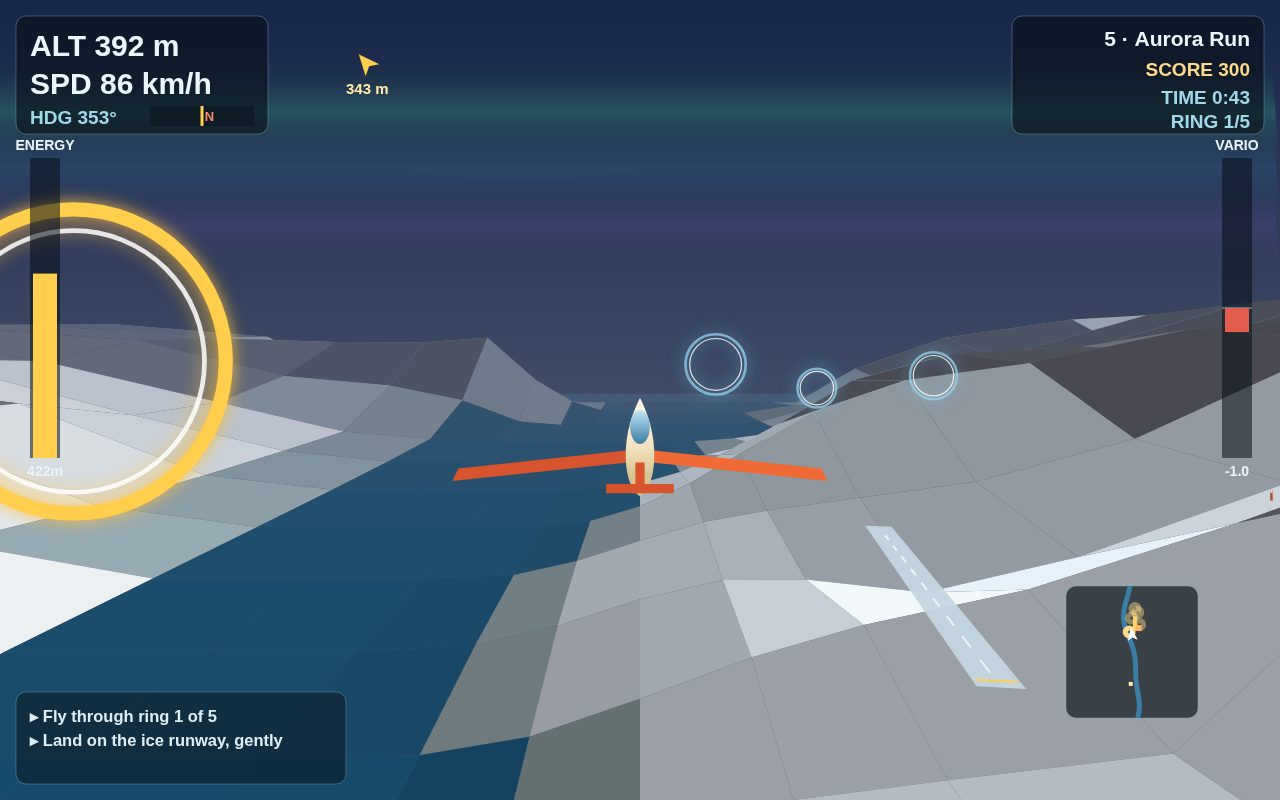
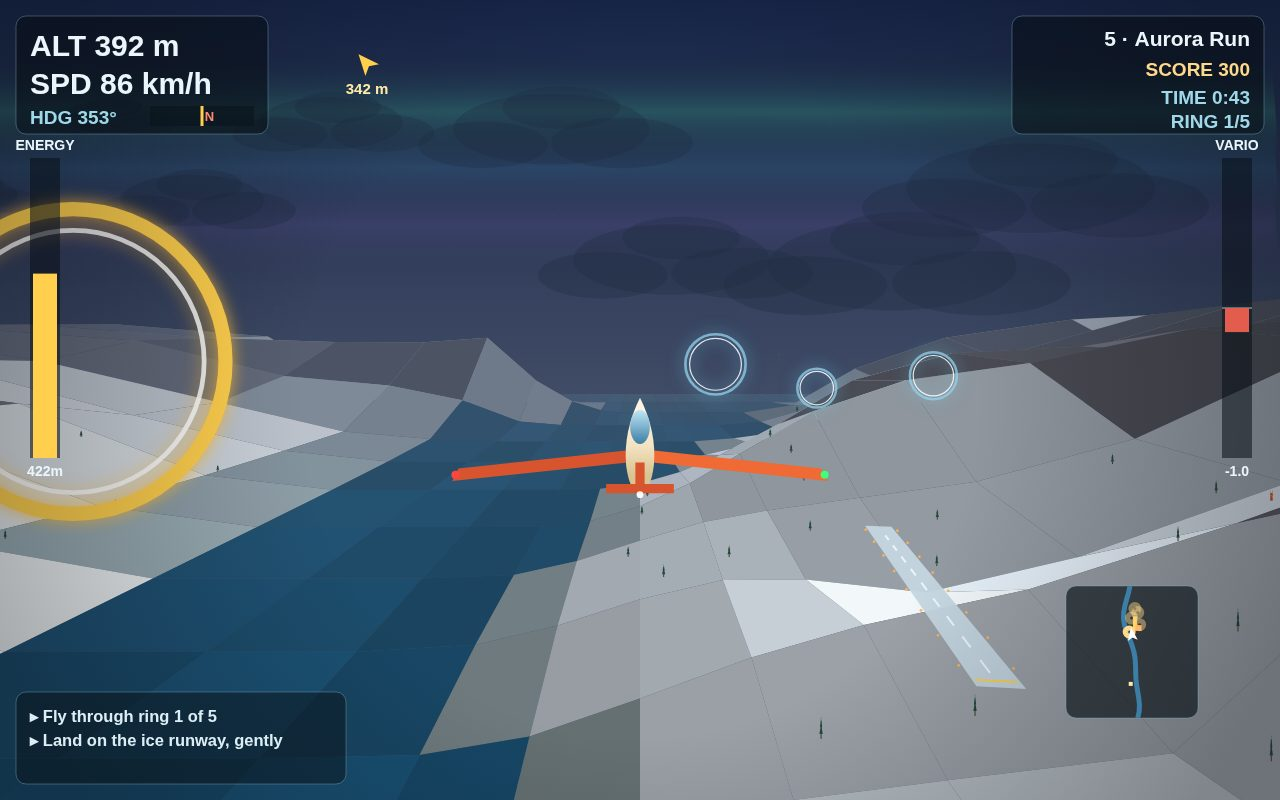
Graphics pass: sun, stars, clouds, pine forest, water shimmer, runway lights, lit windows, glider shadow, nav lights, vignette

diff --git a/game/src/renderWorld.js b/game/src/renderWorld.js
@@ -84,14 +84,79 @@ export function createRenderer(canvas) {
     };
   }
 
-  function drawSky(palette, time) {
+  function drawSky(palette, time, heading = 0) {
     const grad = ctx.createLinearGradient(0, 0, 0, H);
     grad.addColorStop(0, rgb(palette.sky));
     grad.addColorStop(0.55, rgb(palette.horizon));
     grad.addColorStop(1, rgb(palette.fog));
     ctx.fillStyle = grad;
     ctx.fillRect(0, 0, W, H);
+    drawSun(palette, heading);
+    if (palette.aurora > 0.05 || palette.sun < 0.3) drawStars(palette, time);
     if (palette.aurora > 0) drawAurora(palette.aurora, time);
+    drawClouds(palette, time, heading);
+  }
+
+  // The low arctic sun: a disc with a halo that slides toward the horizon
+  // and warms as the day fades. Its screen position follows the heading, so
+  // turning the glider visibly turns the light.
+  function drawSun(palette, heading) {
+    if (palette.sun < 0.12) return;
+    // Sun sits in the south-west; heading 0 (north) puts it left-of-frame.
+    const sunBearing = 3.84; // radians, fixed in the world
+    let rel = sunBearing - heading;
+    while (rel > Math.PI) rel -= Math.PI * 2;
+    while (rel < -Math.PI) rel += Math.PI * 2;
+    if (Math.abs(rel) > 1.5) return;
+    const sx = W / 2 + rel * W * 0.42;
+    const sy = H * (0.52 - palette.sun * 0.3);
+    const r = 26 + palette.sun * 10;
+    const halo = ctx.createRadialGradient(sx, sy, r * 0.4, sx, sy, r * 5.2);
+    halo.addColorStop(0, `rgba(255,214,140,${0.5 * palette.sun})`);
+    halo.addColorStop(1, "rgba(255,190,110,0)");
+    ctx.fillStyle = halo;
+    ctx.fillRect(sx - r * 5.2, sy - r * 5.2, r * 10.4, r * 10.4);
+    ctx.fillStyle = `rgba(255,232,170,${0.55 + palette.sun * 0.4})`;
+    ctx.beginPath();
+    ctx.arc(sx, sy, r, 0, Math.PI * 2);
+    ctx.fill();
+  }
+
+  function drawStars(palette, time) {
+    const alpha = clamp(0.25 - palette.sun, 0, 0.85);
+    if (alpha <= 0.02) return;
+    ctx.save();
+    for (let i = 0; i < 110; i++) {
+      // Deterministic star field from the index alone.
+      const sx = ((i * 613) % 997) / 997 * W;
+      const sy = ((i * 389) % 613) / 613 * H * 0.5;
+      const tw = 0.6 + 0.4 * Math.sin(time * (1 + (i % 5) * 0.3) + i);
+      ctx.fillStyle = `rgba(230,240,255,${alpha * tw})`;
+      ctx.fillRect(sx, sy, i % 7 === 0 ? 2.2 : 1.3, i % 7 === 0 ? 2.2 : 1.3);
+    }
+    ctx.restore();
+  }
+
+  // Slow cloud puffs at screen parallax: they drift against the heading so
+  // the world feels deep even before the terrain fills the frame.
+  function drawClouds(palette, time, heading) {
+    ctx.save();
+    const dark = palette.sun < 0.4;
+    for (let i = 0; i < 9; i++) {
+      const baseX = ((i * 331) % 1200) / 1200;
+      const drift = ((time * 0.004 * (1 + (i % 3) * 0.4)) + heading * -0.06) % 1.3;
+      let cx = (baseX + drift) * W - W * 0.15;
+      if (cx > W + 160) cx -= W + 320;
+      const cy = H * (0.08 + ((i * 197) % 300) / 300 * 0.26);
+      const s = 46 + (i % 4) * 26;
+      ctx.fillStyle = dark ? `rgba(30,42,64,0.3)` : `rgba(255,252,246,${0.1 + palette.sun * 0.1})`;
+      for (const [ox, oy, os] of [[0, 0, 1], [-0.7, 0.16, 0.66], [0.72, 0.14, 0.72], [0.1, -0.22, 0.6]]) {
+        ctx.beginPath();
+        ctx.ellipse(cx + ox * s, cy + oy * s, s * os, s * os * 0.36, 0, 0, Math.PI * 2);
+        ctx.fill();
+      }
+    }
+    ctx.restore();
   }
 
   function drawAurora(strength, time) {
@@ -118,7 +183,7 @@ export function createRenderer(canvas) {
     ctx.restore();
   }
 
-  function drawTerrain(cam, project, palette) {
+  function drawTerrain(cam, project, palette, time = 0) {
     const fwdFlatX = cam.fwdX;
     const fwdFlatZ = cam.fwdZ;
     const len = Math.hypot(fwdFlatX, fwdFlatZ) || 1;
@@ -152,7 +217,11 @@ export function createRenderer(canvas) {
         const surface = surfaceAt(cx, cz, ch);
         let col = SURFACE_COLOURS[surface];
         // Simple hill shading from the height difference across the quad.
-        const shade = clamp(0.88 + (a.wy - c.wy) * 0.004, 0.68, 1.12);
+        let shade = clamp(0.88 + (a.wy - c.wy) * 0.004, 0.68, 1.12);
+        // Open water catches the light: a slow travelling shimmer.
+        if (surface === "water") {
+          shade *= 1 + 0.09 * Math.sin(time * 1.2 + (cx * 0.011 + cz * 0.017));
+        }
         const fogT = clamp((a.p.depth - 500) / 5200, 0, 0.88);
         ctx.fillStyle = rgb(blendCol(shadeCol(col, shade), palette.fog, fogT));
         ctx.beginPath();
@@ -160,6 +229,68 @@ export function createRenderer(canvas) {
         ctx.lineTo(b.p.x, b.p.y);
         ctx.lineTo(c.p.x, c.p.y);
         ctx.lineTo(d.p.x, d.p.y);
+        ctx.closePath();
+        ctx.fill();
+      }
+    }
+  }
+
+  // Pine forest: deterministic trees scattered by a cell hash, drawn only
+  // near the camera where they read as individual trees, not texture.
+  function treeHash(ix, iz) {
+    let n = ix * 2246822519 + iz * 3266489917;
+    n = (n ^ (n >> 15)) * 2654435761;
+    return (((n ^ (n >> 13)) >>> 0) % 1000) / 1000;
+  }
+
+  function drawTrees(project, cam) {
+    const cell = 150;
+    const fwdLen = Math.hypot(cam.fwdX, cam.fwdZ) || 1;
+    const fx = cam.fwdX / fwdLen;
+    const fz = cam.fwdZ / fwdLen;
+    const rx = -fz;
+    const rz = fx;
+    for (let df = 120; df < 2100; df += cell) {
+      for (let dl = -1500; dl <= 1500; dl += cell) {
+        const wx = cam.x + fx * df + rx * dl;
+        const wz = cam.z + fz * df + rz * dl;
+        const ix = Math.round(wx / cell);
+        const iz = Math.round(wz / cell);
+        if (treeHash(ix, iz) > 0.34) continue;
+        const jx = wx + (treeHash(ix + 40, iz) - 0.5) * 80;
+        const jz = wz + (treeHash(ix, iz + 40) - 0.5) * 80;
+        const gy = terrainHeight(jx, jz);
+        if (gy < 18 || gy > 215) continue;
+        if (surfaceAt(jx, jz, gy) !== "snow" && surfaceAt(jx, jz, gy) !== "shore") continue;
+        const base = project(jx, gy, jz);
+        const top = project(jx, gy + 17, jz);
+        if (!base || !top || base.depth > 2100) continue;
+        const s = base.scale;
+        const wHalf = Math.max(1.6, 5.2 * s * 0.14);
+        const trunkH = (base.y - top.y) * 0.24;
+        ctx.strokeStyle = "#4a3826";
+        ctx.lineWidth = Math.max(1, s * 0.16);
+        ctx.beginPath();
+        ctx.moveTo(base.x, base.y);
+        ctx.lineTo(base.x, base.y - trunkH);
+        ctx.stroke();
+        ctx.fillStyle = "#22483a";
+        for (let tier = 0; tier < 2; tier++) {
+          const ty = base.y - trunkH - (base.y - top.y - trunkH) * (tier * 0.42);
+          const tw = wHalf * (1 - tier * 0.34);
+          ctx.beginPath();
+          ctx.moveTo(base.x - tw, ty);
+          ctx.lineTo(base.x, ty - (base.y - top.y) * 0.52);
+          ctx.lineTo(base.x + tw, ty);
+          ctx.closePath();
+          ctx.fill();
+        }
+        // A cap of snow on the crown.
+        ctx.fillStyle = "rgba(240,246,250,0.85)";
+        ctx.beginPath();
+        ctx.moveTo(base.x - wHalf * 0.2, top.y + (base.y - top.y) * 0.1);
+        ctx.lineTo(base.x, top.y);
+        ctx.lineTo(base.x + wHalf * 0.2, top.y + (base.y - top.y) * 0.1);
         ctx.closePath();
         ctx.fill();
       }
@@ -194,6 +325,18 @@ export function createRenderer(canvas) {
       ctx.lineTo(p2.x, p2.y);
       ctx.stroke();
     }
+    // Edge lights: amber dots down both sides, lit as the light fades.
+    const glow = clamp(1.15 - palette.sun, 0.15, 1);
+    for (let dz = -length / 2 + 30; dz < length / 2; dz += 78) {
+      for (const side of [-1, 1]) {
+        const p = project(centreX + side * (width / 2 + 4), groundY + 1.2, centreZ + dz);
+        if (!p || p.depth > 2400) continue;
+        ctx.fillStyle = `rgba(255,178,84,${glow})`;
+        ctx.beginPath();
+        ctx.arc(p.x, p.y, Math.max(1.4, p.scale * 0.32), 0, Math.PI * 2);
+        ctx.fill();
+      }
+    }
     // Threshold bar at the landing (south) end.
     const t1 = project(centreX - width / 2 + 3, groundY + 0.5, centreZ + length / 2 - 14);
     const t2 = project(centreX + width / 2 - 3, groundY + 0.5, centreZ + length / 2 - 14);
@@ -207,16 +350,16 @@ export function createRenderer(canvas) {
     }
   }
 
-  function drawVillage(project) {
+  function drawVillage(project, palette) {
     for (let i = 0; i < VILLAGE.houses; i++) {
       const hx = VILLAGE.x + ((i * 67) % 220) - 110;
       const hz = VILLAGE.z + ((i * 113) % 200) - 100;
       const gy = terrainHeight(hx, hz);
-      drawBox(project, hx, gy, hz, 16, 9, 13, i % 3 === 0 ? "#b5502e" : "#7a4a34", "#e8e2d4");
+      drawBox(project, hx, gy, hz, 16, 9, 13, i % 3 === 0 ? "#b5502e" : "#7a4a34", "#e8e2d4", palette);
     }
   }
 
-  function drawBox(project, x, groundY, z, w, h, d, wall, roof) {
+  function drawBox(project, x, groundY, z, w, h, d, wall, roof, palette) {
     const top = project(x, groundY + h, z);
     const base = project(x, groundY, z);
     if (!top || !base || base.depth > 2600) return;
@@ -230,6 +373,13 @@ export function createRenderer(canvas) {
     ctx.lineTo(base.x + (w / 2 + 2) * s * 0.14, top.y + 2);
     ctx.closePath();
     ctx.fill();
+    // Lit windows once the light goes: Port Svarra is inhabited.
+    if (palette && palette.sun < 0.62 && base.depth < 1500) {
+      ctx.fillStyle = `rgba(255,196,96,${clamp(0.75 - palette.sun, 0.2, 0.75)})`;
+      const winW = Math.max(1.2, s * 0.3);
+      ctx.fillRect(base.x - w * s * 0.05, top.y + (base.y - top.y) * 0.45, winW, winW);
+      ctx.fillRect(base.x + w * s * 0.03, top.y + (base.y - top.y) * 0.55, winW, winW);
+    }
   }
 
   function drawLighthouse(project, palette, time) {
@@ -411,7 +561,67 @@ export function createRenderer(canvas) {
       ctx.fillRect(-52 * s, 2 * s, 16 * s, 10 * s);
       ctx.fillRect(36 * s, 2 * s, 16 * s, 10 * s);
     }
+    // Navigation lights: red on the left tip, green on the right, and a
+    // white tail strobe that blinks — tiny, but they sell the dusk shots.
+    ctx.fillStyle = "#ff4444";
+    ctx.beginPath();
+    ctx.arc(-120 * s, 16 * s, 2.6 * s, 0, Math.PI * 2);
+    ctx.fill();
+    ctx.fillStyle = "#3dff7a";
+    ctx.beginPath();
+    ctx.arc(120 * s, 16 * s, 2.6 * s, 0, Math.PI * 2);
+    ctx.fill();
+    if (Math.sin(time * 2.4) > 0.72) {
+      ctx.fillStyle = "rgba(255,255,255,0.95)";
+      ctx.beginPath();
+      ctx.arc(0, 29 * s, 2.2 * s, 0, Math.PI * 2);
+      ctx.fill();
+    }
     ctx.restore();
+  }
+
+  // The glider's shadow on the snow below: the cheapest altitude cue there
+  // is, and the one real pilots land by.
+  function drawGliderShadow(project, glider) {
+    const gy = terrainHeight(glider.x, glider.z);
+    const gap = glider.y - gy;
+    if (gap > 260 || gap < 0) return;
+    const p = project(glider.x, gy + 1, glider.z);
+    if (!p) return;
+    const shrink = clamp(1 - gap / 300, 0.25, 1);
+    const rx = clamp(11 * p.scale * shrink, 4, 90);
+    ctx.fillStyle = `rgba(16,24,34,${0.32 * shrink})`;
+    ctx.beginPath();
+    ctx.ellipse(p.x, p.y, rx, rx * 0.26, 0, 0, Math.PI * 2);
+    ctx.fill();
+  }
+
+  function drawSpeedStreaks(glider, time) {
+    if (glider.speed < 25) return;
+    ctx.save();
+    ctx.strokeStyle = "rgba(240,248,255,0.32)";
+    ctx.lineWidth = 1.4;
+    for (let i = 0; i < 14; i++) {
+      const seed = (i * 271) % 997;
+      const t = (time * (0.5 + glider.speed * 0.012) + seed / 997) % 1;
+      const edge = i % 2 === 0 ? -1 : 1;
+      const sx = W / 2 + edge * W * (0.3 + t * 0.24);
+      const sy = H * (0.2 + ((seed * 7) % 500) / 500 * 0.6) + t * H * 0.1;
+      const len = 12 + t * 30 * (glider.speed / 30);
+      ctx.beginPath();
+      ctx.moveTo(sx, sy);
+      ctx.lineTo(sx + edge * len, sy + len * 0.24);
+      ctx.stroke();
+    }
+    ctx.restore();
+  }
+
+  function drawVignette() {
+    const grad = ctx.createRadialGradient(W / 2, H / 2, H * 0.42, W / 2, H / 2, H * 0.86);
+    grad.addColorStop(0, "rgba(6,10,16,0)");
+    grad.addColorStop(1, "rgba(6,10,16,0.3)");
+    ctx.fillStyle = grad;
+    ctx.fillRect(0, 0, W, H);
   }
 
   function drawCockpit(glider, snapshot) {
@@ -546,18 +756,24 @@ export function createRenderer(canvas) {
     const palette = skyPalette(sky.dayPhase);
     const cam = cameraFor(glider, view);
     const project = makeProjector(cam);
-    drawSky(palette, time);
-    drawTerrain(cam, project, palette);
+    drawSky(palette, time, glider.heading);
+    drawTerrain(cam, project, palette, time);
+    drawTrees(project, cam);
     drawRunway(project, palette);
-    drawVillage(project);
+    drawVillage(project, palette);
     drawLighthouse(project, palette, time);
     if (dropZone) drawDropZone(project, dropZone);
     drawThermalSpirals(project, sky, time);
     drawBirds(project, sky, glider, time);
     drawRings(project, rings, activeRing, time, palette.aurora);
+    drawGliderShadow(project, glider);
     drawSnowSquallFx(sky, glider, time);
     if (view === "cockpit") drawCockpit(glider, snapshot);
-    else drawGliderChase(glider, time);
+    else {
+      drawGliderChase(glider, time);
+      drawSpeedStreaks(glider, time);
+    }
+    drawVignette();
     return palette;
   }
 
